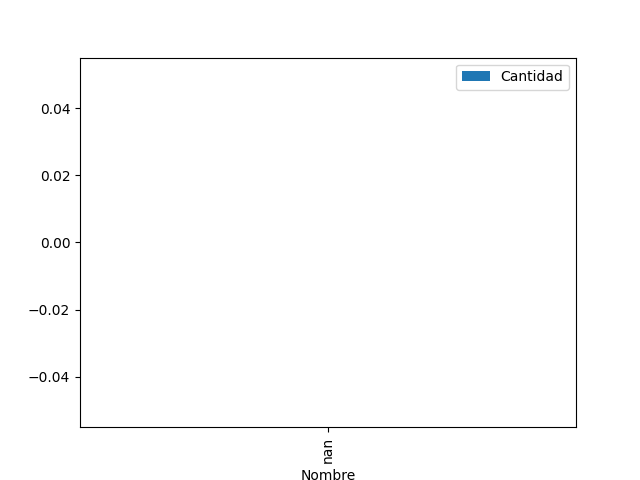
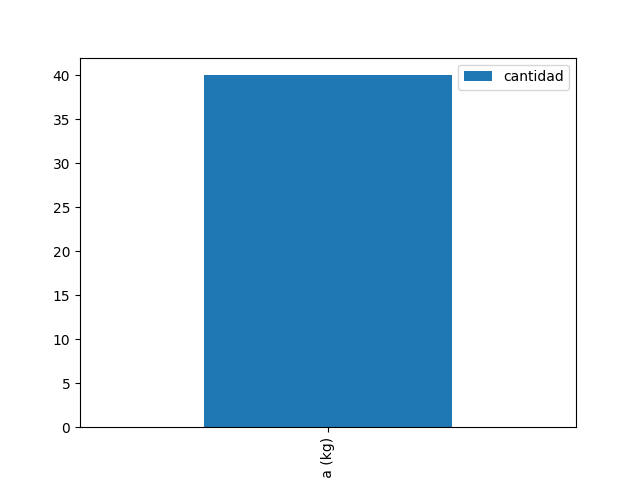
Arreglo API

diff --git a/app.py b/app.py
@@ -2,6 +2,8 @@ from flask import Flask, request, jsonify, render_template, redirect, url_for, f
 import sqlite3
 import os
 import csv
+import pandas as pd
+import matplotlib.pyplot as plt
 
 app = Flask(__name__)
 app.secret_key = 'supersecretkey'  # Necesario para utilizar flash messages
@@ -169,7 +171,21 @@ def delete_producto_endpoint(id):
 @app.route('/api/analitica', methods=['GET'])
 def analitica():
     productos = get_productos()
-    return jsonify(productos)
+
+    df = pd.DataFrame(productos, columns=['id', 'nombre', 'cantidad', 'precio', 'unidad_medida'])
+
+    df.to_csv('inventario.csv', index=False)
+    
+    df = pd.read_csv('inventario.csv')
+
+    analisis = df.describe().to_json()
+    df['nombre'] = df['nombre'].astype(str) + ' (' + df['unidad_medida'] + ')'
+    print(df[['nombre', 'cantidad']])
+    df.plot(kind='bar', x='nombre', y='cantidad')
+    plt.savefig('inventario.png')
+    plt.close()
+    
+    return jsonify(analisis)
 
 @app.route('/api/productos/carga_venta', methods=['GET', 'POST'])
 def carga_venta():
